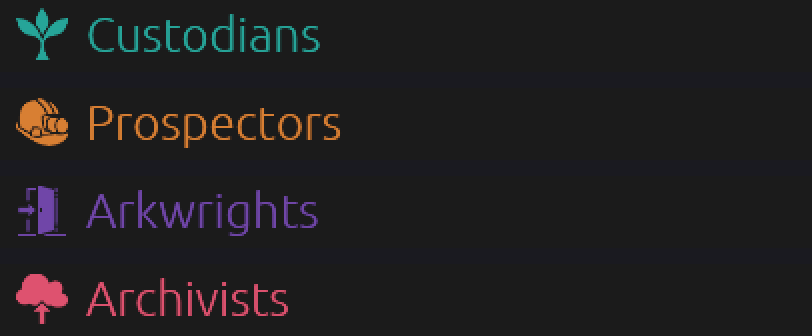
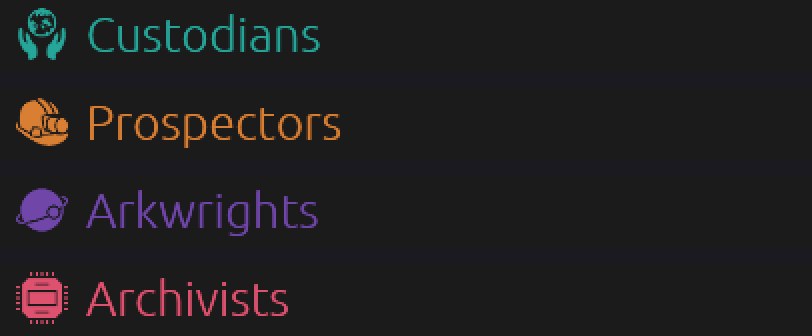
The four Faction symbols as the designer chose them (ticket #168)
Ecology, Mining Helmet, Moon Orbit and CPU: the hands under a globe, the
helmet kept, the ringed planet and the processor. Read off the sheets by row
number, and the sheets checked against the row numbers rather than trusted.

Claude-Session: https://claude.ai/code/session_01D7EF8PeTfBmqaTPAvk4SCt

Changed region(s): [[0.0, 0.5357, 0.0924, 0.7143], [0.0, 0.8036, 0.0924, 0.9821], [0.0, 0.0298, 0.0924, 0.1786]]

diff --git a/src/icons.rs b/src/icons.rs
@@ -40,10 +40,10 @@ pub const CREDITS: [Credit; 36] = [
     // Ticket #168 (version 0.07.5): a symbol for each Faction, worn on its card on the Faction
     // screen and nowhere else. Both authors were already credited above, so the screen gains four
     // rows and no new name.
-    Credit { resource: "Custodians", icon: "Sprout", author: "Lorc" },
+    Credit { resource: "Custodians", icon: "Ecology", author: "Delapouite" },
     Credit { resource: "Prospectors", icon: "Mining Helmet", author: "Delapouite" },
-    Credit { resource: "Arkwrights", icon: "Exit Door", author: "Delapouite" },
-    Credit { resource: "Archivists", icon: "Cloud Upload", author: "Delapouite" },
+    Credit { resource: "Arkwrights", icon: "Moon Orbit", author: "Delapouite" },
+    Credit { resource: "Archivists", icon: "CPU", author: "Delapouite" },
     // Ticket #112 (version 0.07.1): three figures that were words on the board.
     Credit { resource: "Population", icon: "Character", author: "Delapouite" },
     Credit { resource: "Influence", icon: "Megaphone", author: "Delapouite" },

diff --git a/docs/dev-diary/2026-09-13-version-0.07.5/README.md b/docs/dev-diary/2026-09-13-version-0.07.5/README.md
@@ -200,9 +200,12 @@ should only appear on the faction selection screen in their respective cards."*
 
 ![The four Faction cards, each with its symbol where its colour swatch stood](faction-symbols-on-the-cards.png)
 
-![The four title rows magnified: a sprout, a mining helmet, an exit door, a cloud with an arrow](faction-symbols-magnified.png)
+![The four title rows magnified: hands under a globe, a mining helmet, a ringed planet, a processor](faction-symbols-magnified.png)
 
-Built as the ticket's recommendation: **the symbol stands where the colour swatch stood**, drawn in
+**Chosen by the designer off the sheets**, row by row, which changed three of the four I had put up:
+the hands and the Earth for the Custodians, the ringed planet for the Arkwrights, the processor for
+the Archivists; the helmet stood. Built as the ticket's recommendation: **the symbol stands where
+the colour swatch stood**, drawn in
 the Faction's own colour at 28 pixels, so the card says which Faction and which colour in one mark
 and grows by nothing. The research measured that 28 is the size to use and not the swatch's 24 -- at
 24 a glyph has a quarter fewer pixels and three of the candidates stopped naming themselves.
@@ -212,10 +215,10 @@ already on the Credits screen, so it gains four rows and no new name:
 
 | Faction | symbol | why |
 |---|---|---|
-| Custodians | **Sprout** (Lorc) | the boldest shape on its sheet, and the only one of the green candidates that survives 24 with its meaning; `recycle` was passed over because the Trade Post already wears an arrow loop |
+| Custodians | **Ecology** (Delapouite) | two hands cupped under a globe: the Faction's whole business in one gesture, and the gesture is what survives 24 even as the continents blur |
 | Prospectors | **Mining Helmet** (Delapouite) | the cleanest shape on its sheet; `miner` and `war-pick` are the Mine Module's own picture |
-| Arkwrights | **Exit Door** (Delapouite) | a door with a thick arrow through it -- *leave Earth* said in one mark, and the boldest shape available, which the darkest of the four colours needs |
-| Archivists | **Cloud Upload** (Delapouite) | says the thing the Faction does; `open-book` is the Archive Module's own picture |
+| Arkwrights | **Moon Orbit** (Delapouite) | a ringed disc with a moon: bold at 24, which the darkest of the four colours needs, and it says *another world* rather than *a journey* |
+| Archivists | **CPU** (Delapouite) | a square die with a window and pins, clean at 24; `open-book` is the Archive Module's own picture and `microchip` is the same object tilted, which aliases its pins
 
 **One standing rule is bent here, deliberately and nowhere else.** An icon's colour is decided in
 `icons::fill` and never by its caller, because a colour on this board means *whose*. A Faction symbol
